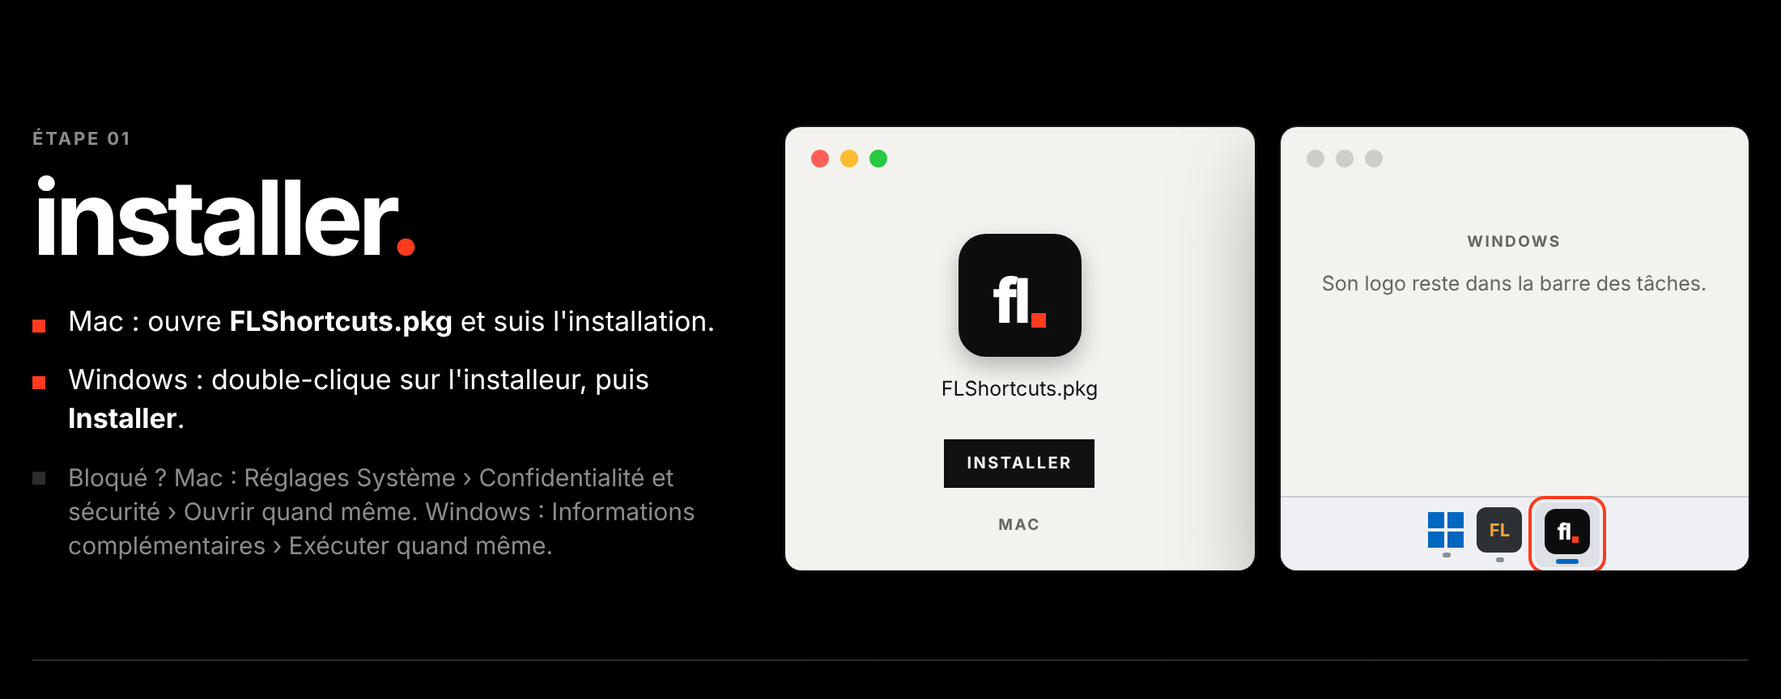
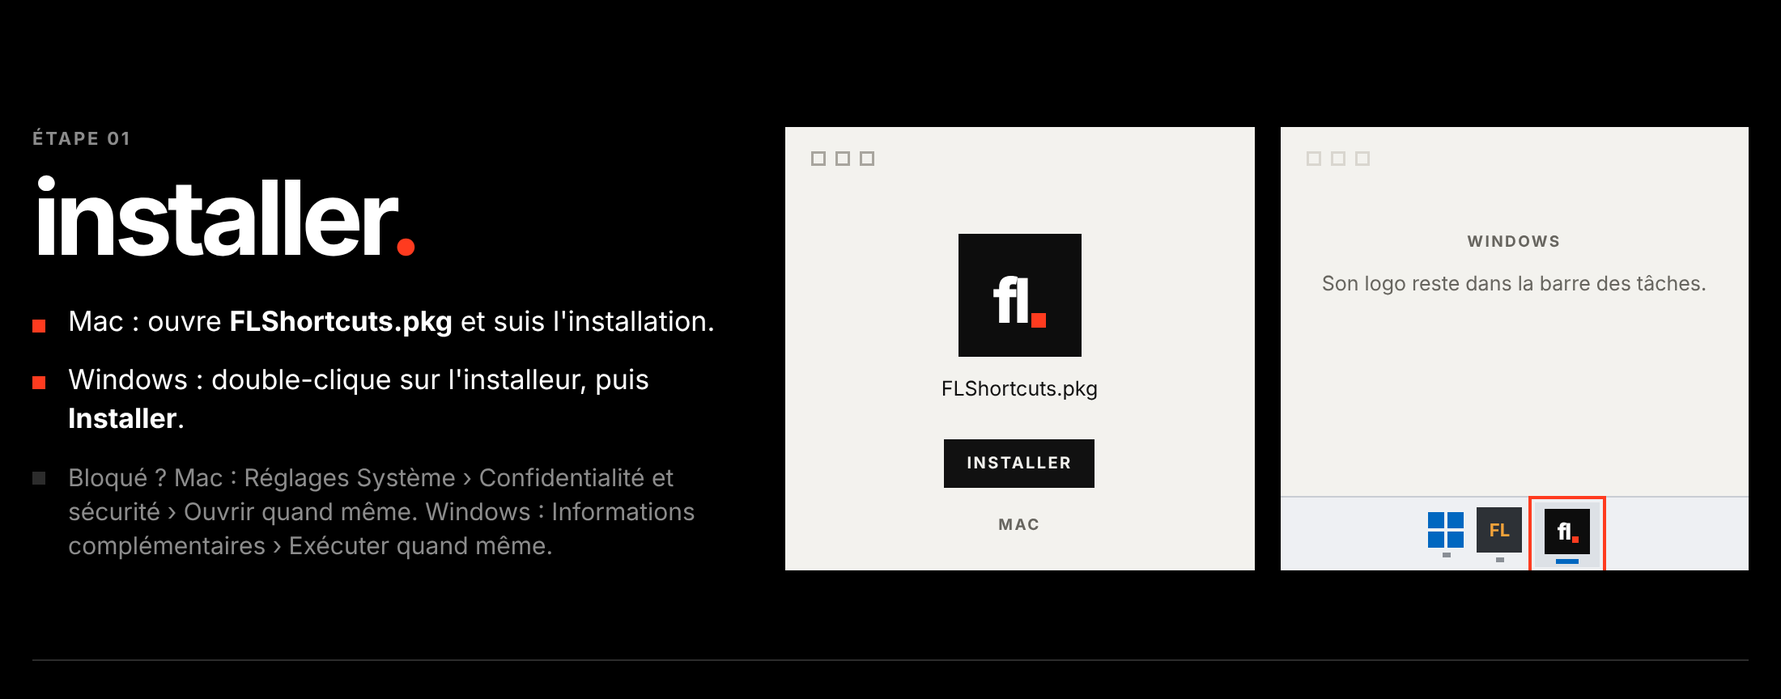
Tuto, confidentialité et ancienne page de téléchargement au style suisse
Plus de fenêtre arrondie, d'ombre floue, de dégradé ni de feux de couleur dans
les dessins du tuto ; la page Confidentialité (site/ et web/) et l'ancienne
page de téléchargement passent au noir, blanc et rouge, coins carrés, comme le
site public et l'app. Images du README refaites.

Claude-Session: https://claude.ai/code/session_01N2FeTTyP7w1fPFHnaWwLWu

diff --git a/site/index.html b/site/index.html
@@ -11,64 +11,52 @@
 <meta name="description" content="Tes propres raccourcis clavier pour FL Studio, sur Mac et Windows. Gratuit, rien à installer dans FL.">
 <link rel="icon" href="icon.png">
 <style>
-  :root {
-    --bg: #f6f6f8; --card: #ffffff; --text: #1d1d1f; --muted: #6e6e73; --line: #e2e2e7;
-    --accent: #ff7a1a; --accent-text: #ffffff; --ok: #1f9d55;
-  }
-  @media (prefers-color-scheme: dark) {
-    :root:not([data-theme="light"]) {
-      --bg: #111113; --card: #1c1c1f; --text: #f2f2f4; --muted: #a1a1a8; --line: #2e2e33;
-      --accent: #ff8c3a; --accent-text: #160b02; --ok: #4ad386;
-    }
-  }
-  :root[data-theme="dark"] {
-    --bg: #111113; --card: #1c1c1f; --text: #f2f2f4; --muted: #a1a1a8; --line: #2e2e33;
-    --accent: #ff8c3a; --accent-text: #160b02; --ok: #4ad386;
-  }
+  /* 23/11 : style suisse, comme le site public (web/) et l'app : fond noir, texte blanc, Helvetica Neue, titres en
+     minuscules avec un point rouge, coins carrés, traits fins ; bouton principal blanc plein. */
+  :root { --ink: #000000; --paper: #FFFFFF; --gray: #8C8C8C; --line: #2C2C2C; --red: #FF3B1F;
+    --text: "Helvetica Neue", Helvetica, Arial, sans-serif; }
   * { box-sizing: border-box; }
-  body {
-    margin: 0; background: var(--bg); color: var(--text);
-    font: 16px/1.55 -apple-system, BlinkMacSystemFont, "Segoe UI Variable", "Segoe UI", system-ui, sans-serif;
-  }
-  main { max-width: 880px; margin: 0 auto; padding: 48px 16px 64px; }
-  header { display: flex; align-items: center; gap: 16px; margin-bottom: 8px; }
-  header img { width: 64px; height: 64px; border-radius: 15px; }
-  h1 { font-size: 2rem; line-height: 1.15; margin: 0; letter-spacing: -0.01em; }
-  .lead { color: var(--muted); font-size: 1.1rem; margin: 12px 0 32px; max-width: 60ch; }
-  .primary {
-    display: flex; flex-wrap: wrap; align-items: center; gap: 12px 20px;
-    background: var(--card); border: 1px solid var(--line); border-radius: 16px; padding: 24px;
-  }
-  .btn {
-    display: inline-flex; align-items: center; gap: 10px; text-decoration: none; font-weight: 600;
-    background: var(--accent); color: var(--accent-text); padding: 14px 22px; border-radius: 12px; font-size: 1.05rem;
-  }
-  .btn:focus-visible, a:focus-visible { outline: 3px solid var(--accent); outline-offset: 3px; }
-  .btn.secondary { background: transparent; color: var(--text); border: 1px solid var(--line); font-weight: 500; }
-  .meta { color: var(--muted); font-size: 0.92rem; }
-  .grid { display: grid; grid-template-columns: repeat(auto-fit, minmax(260px, 1fr)); gap: 16px; margin-top: 32px; }
-  .card { background: var(--card); border: 1px solid var(--line); border-radius: 16px; padding: 20px 22px; }
-  .card h2 { font-size: 1.15rem; margin: 0 0 4px; }
-  .card .sub { color: var(--muted); font-size: 0.9rem; margin: 0 0 14px; }
-  ol { margin: 0; padding-left: 1.25em; }
-  li { margin: 6px 0; }
-  .note { margin-top: 14px; font-size: 0.9rem; color: var(--muted); border-top: 1px solid var(--line); padding-top: 12px; }
-  .card.current { border-color: var(--accent); }
-  .tag { display: inline-block; font-size: 0.75rem; font-weight: 600; color: var(--accent); margin-left: 6px; }
-  h3 { font-size: 1.05rem; margin: 40px 0 8px; }
-  .features { display: grid; grid-template-columns: repeat(auto-fit, minmax(220px, 1fr)); gap: 12px 24px; padding: 0; list-style: none; }
-  .features li { margin: 0; }
-  .features b { display: block; }
-  .features span { color: var(--muted); font-size: 0.92rem; }
-  footer { margin-top: 48px; color: var(--muted); font-size: 0.85rem; }
-  footer a, .card a, .meta a { color: inherit; }
-  kbd { font: inherit; font-size: 0.85em; border: 1px solid var(--line); border-bottom-width: 2px; border-radius: 5px; padding: 0 5px; background: var(--bg); }
+  html, body { margin: 0; background: var(--ink); color: var(--paper); }
+  body { font: 16px/1.55 var(--text); -webkit-font-smoothing: antialiased; }
+  main { max-width: 960px; margin: 0 auto; padding: 0 20px 64px; }
+  header { display: flex; align-items: center; gap: 14px; height: 64px; border-bottom: 1px solid var(--line); margin-bottom: 48px; }
+  header img { width: 32px; height: 32px; }
+  header h1 { font: 700 22px/1 var(--text); letter-spacing: -0.04em; margin: 0; text-transform: lowercase; }
+  header h1::after { content: "."; color: var(--red); }
+  .lead { font: 700 clamp(36px, 6vw, 64px)/1 var(--text); letter-spacing: -0.045em; margin: 0 0 36px; max-width: 18ch; }
+  .primary { display: flex; flex-wrap: wrap; align-items: center; gap: 12px 20px; padding: 0 0 36px; border-bottom: 1px solid var(--line); }
+  .btn { display: inline-flex; align-items: center; gap: 10px; text-decoration: none; font: 700 12px/1 var(--text);
+    letter-spacing: 1.4px; text-transform: uppercase; background: var(--paper); color: var(--ink); padding: 16px 22px; }
+  .btn:hover { background: var(--red); color: var(--ink); }
+  .btn:focus-visible, a:focus-visible { outline: 2px solid var(--red); outline-offset: 3px; }
+  .btn.secondary { background: transparent; color: var(--paper); box-shadow: inset 0 0 0 1.5px var(--paper); }
+  .btn.secondary:hover { background: var(--paper); color: var(--ink); }
+  .meta { color: var(--gray); font-size: 0.92rem; }
+  .grid { display: grid; grid-template-columns: repeat(auto-fit, minmax(280px, 1fr)); gap: 0 40px; }
+  .card { padding: 32px 0; border-bottom: 1px solid var(--line); }
+  .card h2 { font: 700 40px/1 var(--text); letter-spacing: -0.04em; margin: 0 0 8px; text-transform: lowercase; }
+  .card h2::after { content: "."; color: var(--red); }
+  .card .sub { color: var(--gray); font-size: 0.9rem; margin: 0 0 18px; }
+  ol { list-style: none; margin: 0; padding: 0; counter-reset: n; }
+  ol li { counter-increment: n; position: relative; padding-left: 34px; margin: 10px 0; }
+  ol li::before { content: counter(n, decimal-leading-zero); position: absolute; left: 0; top: 2px; font: 700 11px/1.6 var(--text); letter-spacing: 1.4px; color: var(--red); }
+  .note { margin-top: 16px; font-size: 0.9rem; color: var(--gray); border-top: 1px solid var(--line); padding-top: 12px; }
+  .card.current h2::after { content: ". ●"; }
+  .tag { display: inline-block; font-size: 0.75rem; font-weight: 700; color: var(--red); margin-left: 6px; }
+  h3 { font: 700 11px/1.25 var(--text); letter-spacing: 1.4px; text-transform: uppercase; color: var(--gray); margin: 48px 0 16px; }
+  .features { display: grid; grid-template-columns: repeat(auto-fit, minmax(220px, 1fr)); gap: 0 32px; padding: 0; margin: 0; list-style: none; border-top: 1px solid var(--line); }
+  .features li { margin: 0; padding: 16px 0; border-bottom: 1px solid var(--line); }
+  .features b { display: block; font-size: 1.05rem; letter-spacing: -0.02em; }
+  .features span { color: var(--gray); font-size: 0.92rem; }
+  footer { margin-top: 48px; color: var(--gray); font-size: 0.85rem; }
+  footer a, .card a, .meta a { color: inherit; text-underline-offset: 3px; }
+  kbd { font: 700 0.8em/1 var(--text); border: 1.5px solid currentColor; padding: 2px 5px; }
 </style>
 </head>
 <body>
 <main>
   <header>
-    <img src="icon.png" alt="" width="64" height="64">
+    <img src="icon.png" alt="" width="32" height="32">
     <h1>FL Shortcuts</h1>
   </header>
   <p class="lead">Tes propres raccourcis pour FL Studio, des macros, et ton projet rangé en un clic. Sur Mac et Windows,

diff --git a/site/tuto.html b/site/tuto.html
@@ -51,13 +51,11 @@ main { max-width: 1100px; margin: 0 auto; padding: 0 20px 64px; }
 
 /* ---------- L'app dessinée ---------- */
 .stage { position: relative; }
-.app { background: var(--a-bg); color: var(--a-ink); font-family: var(--a-font); border-radius: 10px; overflow: hidden;
-  box-shadow: 0 0 0 1px rgba(255,255,255,.08), 0 24px 60px rgba(0,0,0,.5); }
+.app { background: var(--a-bg); color: var(--a-ink); font-family: var(--a-font); overflow: hidden; }
 .bar { display: flex; align-items: center; gap: 18px; height: 40px; padding: 0 16px; font-size: 12.5px; color: var(--a-gray); }
-.lights { display: flex; gap: 7px; margin-right: 22px; }
-.lights i { width: 11px; height: 11px; border-radius: 50%; background: #FF5F57; }
-.lights i:nth-child(2) { background: #FEBC2E; } .lights i:nth-child(3) { background: #28C840; }
-.lights.off i { background: #CFCDC7; }
+.lights { display: flex; gap: 6px; margin-right: 22px; }
+.lights i { width: 9px; height: 9px; box-shadow: inset 0 0 0 1.5px var(--a-faint); }
+.lights.off i { box-shadow: inset 0 0 0 1.5px var(--a-line); }
 .bar .on { color: var(--a-ink); font-weight: 600; }
 .bar .dot::after { content: ""; display: inline-block; width: 5px; height: 5px; background: var(--red); margin-left: 5px; vertical-align: 2px; }
 .page { padding: 18px 28px 26px; }
@@ -73,26 +71,26 @@ main { max-width: 1100px; margin: 0 auto; padding: 0 20px 64px; }
 .u { text-decoration: underline; text-underline-offset: 3px; }
 .rule { border-top: 1.5px solid var(--a-ink); }
 .cursor { position: absolute; width: 18px; height: 18px; pointer-events: none; }
-.cursor svg { display: block; filter: drop-shadow(0 1px 1px rgba(0,0,0,.35)); }
+.cursor svg { display: block; }
 
 /* 01 installer */
 .duo { display: grid; grid-template-columns: 1fr 1fr; gap: 16px; }
 .finder { padding: 26px 18px 22px; display: flex; flex-direction: column; align-items: center; gap: 12px; text-align: center; font-size: 12.5px; }
 .tile { position: relative; display: inline-flex; align-items: flex-end; justify-content: center; width: 76px; height: 76px;
-  border-radius: 17px; background: #0D0D0D; box-shadow: 0 6px 14px rgba(0,0,0,.25); }
+  background: #0D0D0D; }
 .tile b { font: 800 38px/1 var(--text); letter-spacing: -0.07em; color: #fff; margin-bottom: 15px; }
 .tile i { width: 9px; height: 9px; background: var(--red); margin: 0 0 18px 3px; }
-.tile.small { width: 28px; height: 28px; border-radius: 7px; box-shadow: none; }
+.tile.small { width: 28px; height: 28px; }
 .tile.small b { font-size: 14px; margin-bottom: 6px; }
 .tile.small i { width: 4px; height: 4px; margin: 0 0 7px 1px; }
 .taskbar { margin-top: auto; width: 100%; display: flex; justify-content: center; align-items: center; gap: 8px; height: 46px; background: #EEF0F3; border-top: 1px solid #C9CDD3; }
 .taskbar .ic { position: relative; display: flex; flex-direction: column; align-items: center; gap: 3px; }
-.taskbar .ic::after { content: ""; width: 5px; height: 3px; border-radius: 2px; background: #8A8F96; }
-.taskbar .ic.me { padding: 4px 6px 2px; background: #DDE1E6; border-radius: 6px; outline: 2px solid var(--red); outline-offset: 2px; }
+.taskbar .ic::after { content: ""; width: 5px; height: 3px; background: #8A8F96; }
+.taskbar .ic.me { padding: 4px 6px 2px; background: #DDE1E6; outline: 2px solid var(--red); outline-offset: 2px; }
 .taskbar .ic.me::after { width: 14px; background: #0067C0; }
 .win-logo { width: 22px; height: 22px; display: grid; grid-template-columns: 1fr 1fr; gap: 2px; }
 .win-logo i { background: #0067C0; }
-.fl-ic { width: 28px; height: 28px; border-radius: 6px; background: #2D3136; color: #F2A33A; font: 700 11px/28px var(--text); text-align: center; }
+.fl-ic { width: 28px; height: 28px; background: #2D3136; color: #F2A33A; font: 700 11px/28px var(--text); text-align: center; }
 
 /* 02 autoriser */
 .welcome { padding: 26px 34px 26px; }
@@ -172,11 +170,11 @@ main { max-width: 1100px; margin: 0 auto; padding: 0 20px 64px; }
 .stats .a-btn { margin-left: auto; height: 24px; padding: 0 10px; }
 
 /* 07 au quotidien */
-.desk { position: relative; height: 330px; border-radius: 10px; overflow: hidden; background: linear-gradient(160deg, #3B3A37, #1C1B19); box-shadow: 0 0 0 1px rgba(255,255,255,.08); }
+.desk { position: relative; height: 330px; overflow: hidden; background: var(--ink); border: 1px solid var(--line); }
 .menubar { display: flex; justify-content: flex-end; align-items: center; gap: 16px; height: 28px; padding: 0 14px; background: #E9E8E4; color: #111; font: 500 12px/1 var(--a-font); }
-.menubar .me { display: inline-flex; align-items: center; justify-content: center; width: 30px; height: 22px; border-radius: 5px; background: rgba(0,0,0,.12); }
+.menubar .me { display: inline-flex; align-items: center; justify-content: center; width: 30px; height: 22px; background: rgba(0,0,0,.12); }
 .menu { position: absolute; top: 34px; right: 18px; width: 280px; background: var(--a-bg); color: var(--a-ink); font-family: var(--a-font);
-  box-shadow: inset 0 0 0 2px var(--a-ink), 0 16px 40px rgba(0,0,0,.45); padding: 4px 0 6px; font-size: 13.5px; }
+  box-shadow: inset 0 0 0 2px var(--a-ink); padding: 4px 0 6px; font-size: 13.5px; }
 .menu .mh { display: flex; align-items: center; gap: 10px; padding: 10px 14px 9px; font-weight: 600; font-size: 16px; letter-spacing: -0.02em; }
 .menu .sep { height: 1px; background: var(--a-line); margin: 4px 0; }
 .menu .it { display: flex; justify-content: space-between; height: 34px; align-items: center; padding: 0 14px; margin: 0 2px; }

diff --git a/web/public/tuto.html b/web/public/tuto.html
@@ -51,13 +51,11 @@ main { max-width: 1100px; margin: 0 auto; padding: 0 20px 64px; }
 
 /* ---------- L'app dessinée ---------- */
 .stage { position: relative; }
-.app { background: var(--a-bg); color: var(--a-ink); font-family: var(--a-font); border-radius: 10px; overflow: hidden;
-  box-shadow: 0 0 0 1px rgba(255,255,255,.08), 0 24px 60px rgba(0,0,0,.5); }
+.app { background: var(--a-bg); color: var(--a-ink); font-family: var(--a-font); overflow: hidden; }
 .bar { display: flex; align-items: center; gap: 18px; height: 40px; padding: 0 16px; font-size: 12.5px; color: var(--a-gray); }
-.lights { display: flex; gap: 7px; margin-right: 22px; }
-.lights i { width: 11px; height: 11px; border-radius: 50%; background: #FF5F57; }
-.lights i:nth-child(2) { background: #FEBC2E; } .lights i:nth-child(3) { background: #28C840; }
-.lights.off i { background: #CFCDC7; }
+.lights { display: flex; gap: 6px; margin-right: 22px; }
+.lights i { width: 9px; height: 9px; box-shadow: inset 0 0 0 1.5px var(--a-faint); }
+.lights.off i { box-shadow: inset 0 0 0 1.5px var(--a-line); }
 .bar .on { color: var(--a-ink); font-weight: 600; }
 .bar .dot::after { content: ""; display: inline-block; width: 5px; height: 5px; background: var(--red); margin-left: 5px; vertical-align: 2px; }
 .page { padding: 18px 28px 26px; }
@@ -73,26 +71,26 @@ main { max-width: 1100px; margin: 0 auto; padding: 0 20px 64px; }
 .u { text-decoration: underline; text-underline-offset: 3px; }
 .rule { border-top: 1.5px solid var(--a-ink); }
 .cursor { position: absolute; width: 18px; height: 18px; pointer-events: none; }
-.cursor svg { display: block; filter: drop-shadow(0 1px 1px rgba(0,0,0,.35)); }
+.cursor svg { display: block; }
 
 /* 01 installer */
 .duo { display: grid; grid-template-columns: 1fr 1fr; gap: 16px; }
 .finder { padding: 26px 18px 22px; display: flex; flex-direction: column; align-items: center; gap: 12px; text-align: center; font-size: 12.5px; }
 .tile { position: relative; display: inline-flex; align-items: flex-end; justify-content: center; width: 76px; height: 76px;
-  border-radius: 17px; background: #0D0D0D; box-shadow: 0 6px 14px rgba(0,0,0,.25); }
+  background: #0D0D0D; }
 .tile b { font: 800 38px/1 var(--text); letter-spacing: -0.07em; color: #fff; margin-bottom: 15px; }
 .tile i { width: 9px; height: 9px; background: var(--red); margin: 0 0 18px 3px; }
-.tile.small { width: 28px; height: 28px; border-radius: 7px; box-shadow: none; }
+.tile.small { width: 28px; height: 28px; }
 .tile.small b { font-size: 14px; margin-bottom: 6px; }
 .tile.small i { width: 4px; height: 4px; margin: 0 0 7px 1px; }
 .taskbar { margin-top: auto; width: 100%; display: flex; justify-content: center; align-items: center; gap: 8px; height: 46px; background: #EEF0F3; border-top: 1px solid #C9CDD3; }
 .taskbar .ic { position: relative; display: flex; flex-direction: column; align-items: center; gap: 3px; }
-.taskbar .ic::after { content: ""; width: 5px; height: 3px; border-radius: 2px; background: #8A8F96; }
-.taskbar .ic.me { padding: 4px 6px 2px; background: #DDE1E6; border-radius: 6px; outline: 2px solid var(--red); outline-offset: 2px; }
+.taskbar .ic::after { content: ""; width: 5px; height: 3px; background: #8A8F96; }
+.taskbar .ic.me { padding: 4px 6px 2px; background: #DDE1E6; outline: 2px solid var(--red); outline-offset: 2px; }
 .taskbar .ic.me::after { width: 14px; background: #0067C0; }
 .win-logo { width: 22px; height: 22px; display: grid; grid-template-columns: 1fr 1fr; gap: 2px; }
 .win-logo i { background: #0067C0; }
-.fl-ic { width: 28px; height: 28px; border-radius: 6px; background: #2D3136; color: #F2A33A; font: 700 11px/28px var(--text); text-align: center; }
+.fl-ic { width: 28px; height: 28px; background: #2D3136; color: #F2A33A; font: 700 11px/28px var(--text); text-align: center; }
 
 /* 02 autoriser */
 .welcome { padding: 26px 34px 26px; }
@@ -172,11 +170,11 @@ main { max-width: 1100px; margin: 0 auto; padding: 0 20px 64px; }
 .stats .a-btn { margin-left: auto; height: 24px; padding: 0 10px; }
 
 /* 07 au quotidien */
-.desk { position: relative; height: 330px; border-radius: 10px; overflow: hidden; background: linear-gradient(160deg, #3B3A37, #1C1B19); box-shadow: 0 0 0 1px rgba(255,255,255,.08); }
+.desk { position: relative; height: 330px; overflow: hidden; background: var(--ink); border: 1px solid var(--line); }
 .menubar { display: flex; justify-content: flex-end; align-items: center; gap: 16px; height: 28px; padding: 0 14px; background: #E9E8E4; color: #111; font: 500 12px/1 var(--a-font); }
-.menubar .me { display: inline-flex; align-items: center; justify-content: center; width: 30px; height: 22px; border-radius: 5px; background: rgba(0,0,0,.12); }
+.menubar .me { display: inline-flex; align-items: center; justify-content: center; width: 30px; height: 22px; background: rgba(0,0,0,.12); }
 .menu { position: absolute; top: 34px; right: 18px; width: 280px; background: var(--a-bg); color: var(--a-ink); font-family: var(--a-font);
-  box-shadow: inset 0 0 0 2px var(--a-ink), 0 16px 40px rgba(0,0,0,.45); padding: 4px 0 6px; font-size: 13.5px; }
+  box-shadow: inset 0 0 0 2px var(--a-ink); padding: 4px 0 6px; font-size: 13.5px; }
 .menu .mh { display: flex; align-items: center; gap: 10px; padding: 10px 14px 9px; font-weight: 600; font-size: 16px; letter-spacing: -0.02em; }
 .menu .sep { height: 1px; background: var(--a-line); margin: 4px 0; }
 .menu .it { display: flex; justify-content: space-between; height: 34px; align-items: center; padding: 0 14px; margin: 0 2px; }

diff --git a/web/public/confidentialite.html b/web/public/confidentialite.html
@@ -9,25 +9,29 @@
 <meta name="description" content="Ce que FL Shortcuts garde, pourquoi, combien de temps, et qui édite ce site.">
 <link rel="icon" href="img/icone.png">
 <style>
-  :root { --bg: #f6f6f8; --card: #ffffff; --text: #1d1d1f; --muted: #6e6e73; --line: #e2e2e7; --accent: #ff7a1a; }
-  @media (prefers-color-scheme: dark) {
-    :root { --bg: #111113; --card: #1c1c1f; --text: #f2f2f4; --muted: #a1a1a8; --line: #2e2e33; --accent: #ff8c3a; }
-  }
+  /* 23/11 : style suisse, comme le site public et l'app : fond noir, texte blanc, Helvetica Neue, titre en
+     minuscules avec un point rouge, coins carrés, traits fins, rouge seulement pour les puces. */
+  :root { --ink: #000000; --paper: #FFFFFF; --gray: #8C8C8C; --line: #2C2C2C; --red: #FF3B1F;
+    --text: "Helvetica Neue", Helvetica, Arial, sans-serif; }
   * { box-sizing: border-box; }
-  body {
-    margin: 0; background: var(--bg); color: var(--text);
-    font: 16px/1.6 -apple-system, BlinkMacSystemFont, "Segoe UI Variable", "Segoe UI", system-ui, sans-serif;
-  }
-  main { max-width: 720px; margin: 0 auto; padding: 48px 16px 64px; }
-  h1 { font-size: 2rem; line-height: 1.15; margin: 0 0 4px; letter-spacing: -0.01em; }
-  h2 { font-size: 1.15rem; margin: 36px 0 8px; }
+  html, body { margin: 0; background: var(--ink); color: var(--paper); }
+  body { font: 16px/1.6 var(--text); -webkit-font-smoothing: antialiased; }
+  main { max-width: 760px; margin: 0 auto; padding: 0 20px 64px; }
+  main > p:first-child { display: flex; align-items: center; height: 64px; margin: 0 0 48px; border-bottom: 1px solid var(--line);
+    font-weight: 700; letter-spacing: -0.02em; }
+  main > p:first-child a { text-decoration: none; }
+  h1 { font: 700 clamp(48px, 9vw, 96px)/0.95 var(--text); letter-spacing: -0.05em; margin: 0 0 12px; text-transform: lowercase; }
+  h1::after { content: "."; color: var(--red); }
+  h2 { font: 700 11px/1.25 var(--text); letter-spacing: 1.4px; text-transform: uppercase; color: var(--gray);
+    margin: 40px 0 14px; padding-top: 18px; border-top: 1px solid var(--line); }
   p, li { max-width: 68ch; }
-  ul { padding-left: 1.2em; }
-  li { margin: 6px 0; }
-  .muted { color: var(--muted); }
-  a { color: inherit; }
-  a:focus-visible { outline: 3px solid var(--accent); outline-offset: 3px; }
-  footer { margin-top: 48px; color: var(--muted); font-size: 0.85rem; border-top: 1px solid var(--line); padding-top: 16px; }
+  ul { list-style: none; padding: 0; }
+  li { position: relative; padding-left: 22px; margin: 10px 0; }
+  li::before { content: ""; position: absolute; left: 0; top: 0.6em; width: 8px; height: 8px; background: var(--red); }
+  .muted { color: var(--gray); }
+  a { color: inherit; text-underline-offset: 3px; }
+  a:focus-visible { outline: 2px solid var(--red); outline-offset: 3px; }
+  footer { margin-top: 48px; color: var(--gray); font-size: 0.85rem; border-top: 1px solid var(--line); padding-top: 16px; }
 </style>
 </head>
 <body>

diff --git a/site/confidentialite.html b/site/confidentialite.html
@@ -9,25 +9,29 @@
 <meta name="description" content="Ce que FL Shortcuts garde, pourquoi, combien de temps, et qui édite ce site.">
 <link rel="icon" href="icon.png">
 <style>
-  :root { --bg: #f6f6f8; --card: #ffffff; --text: #1d1d1f; --muted: #6e6e73; --line: #e2e2e7; --accent: #ff7a1a; }
-  @media (prefers-color-scheme: dark) {
-    :root { --bg: #111113; --card: #1c1c1f; --text: #f2f2f4; --muted: #a1a1a8; --line: #2e2e33; --accent: #ff8c3a; }
-  }
+  /* 23/11 : style suisse, comme le site public et l'app : fond noir, texte blanc, Helvetica Neue, titre en
+     minuscules avec un point rouge, coins carrés, traits fins, rouge seulement pour les puces. */
+  :root { --ink: #000000; --paper: #FFFFFF; --gray: #8C8C8C; --line: #2C2C2C; --red: #FF3B1F;
+    --text: "Helvetica Neue", Helvetica, Arial, sans-serif; }
   * { box-sizing: border-box; }
-  body {
-    margin: 0; background: var(--bg); color: var(--text);
-    font: 16px/1.6 -apple-system, BlinkMacSystemFont, "Segoe UI Variable", "Segoe UI", system-ui, sans-serif;
-  }
-  main { max-width: 720px; margin: 0 auto; padding: 48px 16px 64px; }
-  h1 { font-size: 2rem; line-height: 1.15; margin: 0 0 4px; letter-spacing: -0.01em; }
-  h2 { font-size: 1.15rem; margin: 36px 0 8px; }
+  html, body { margin: 0; background: var(--ink); color: var(--paper); }
+  body { font: 16px/1.6 var(--text); -webkit-font-smoothing: antialiased; }
+  main { max-width: 760px; margin: 0 auto; padding: 0 20px 64px; }
+  main > p:first-child { display: flex; align-items: center; height: 64px; margin: 0 0 48px; border-bottom: 1px solid var(--line);
+    font-weight: 700; letter-spacing: -0.02em; }
+  main > p:first-child a { text-decoration: none; }
+  h1 { font: 700 clamp(48px, 9vw, 96px)/0.95 var(--text); letter-spacing: -0.05em; margin: 0 0 12px; text-transform: lowercase; }
+  h1::after { content: "."; color: var(--red); }
+  h2 { font: 700 11px/1.25 var(--text); letter-spacing: 1.4px; text-transform: uppercase; color: var(--gray);
+    margin: 40px 0 14px; padding-top: 18px; border-top: 1px solid var(--line); }
   p, li { max-width: 68ch; }
-  ul { padding-left: 1.2em; }
-  li { margin: 6px 0; }
-  .muted { color: var(--muted); }
-  a { color: inherit; }
-  a:focus-visible { outline: 3px solid var(--accent); outline-offset: 3px; }
-  footer { margin-top: 48px; color: var(--muted); font-size: 0.85rem; border-top: 1px solid var(--line); padding-top: 16px; }
+  ul { list-style: none; padding: 0; }
+  li { position: relative; padding-left: 22px; margin: 10px 0; }
+  li::before { content: ""; position: absolute; left: 0; top: 0.6em; width: 8px; height: 8px; background: var(--red); }
+  .muted { color: var(--gray); }
+  a { color: inherit; text-underline-offset: 3px; }
+  a:focus-visible { outline: 2px solid var(--red); outline-offset: 3px; }
+  footer { margin-top: 48px; color: var(--gray); font-size: 0.85rem; border-top: 1px solid var(--line); padding-top: 16px; }
 </style>
 </head>
 <body>

diff --git a/CLAUDE.md b/CLAUDE.md
@@ -745,7 +745,12 @@ zizmor, conférences macOS ; à garder)
   Papier ; les photos de la CI sont en anglais), images du README refaites (`tuto-3-raccourcis` … `tuto-6-communaute`).
   README réécrit. Modes d'emploi (`lisezmoi_modeles.py`) : Trouver, « Nouvelle macro », touche de l'Organiser, logo
   Windows ; `lisezmoi.py` les recopie dans `web/public/mode-emploi-*.html`. Logo « fl. » (Resources/AppIcon-1024.png)
-  mis à la place du vieux clavier dans `site/icon.png` et `web/public/img/icone.png`.
+  mis à la place du vieux clavier dans `site/icon.png` et `web/public/img/icone.png`. Puis (« tu me mets des trucs
+  liquide glace… on est dans le style suisse maintenant ») : dessins du tuto tout carrés et plats (plus de fenêtre
+  arrondie, d'ombre floue, de dégradé ni de feux de couleur), `site/confidentialite.html` (+ sa copie `web/public/`)
+  et l'ancienne page `site/index.html` au style suisse (empreinte du script de la CSP inchangée). NE PAS remettre
+  d'arrondi ni d'ombre floue sur les pages ; le « Liquid Glass » qu'il voit sur GitHub vient du vieux README de la
+  branche par défaut.
   **Site public** (`web/`, fait le 06/11 par une autre session sur `claude/nifty-mccarthy-s6i9kh` : Cloudflare
   Workers, prix libre, SumUp, Brevo ; mode d'emploi `web/README.md`) ramené sur la branche le 23/11, même allure, textes
   à jour ; VRAI BUG corrigé : ses téléchargements visaient `FLShortcut.dmg` / `FLShortcut-Windows-Setup.exe`
